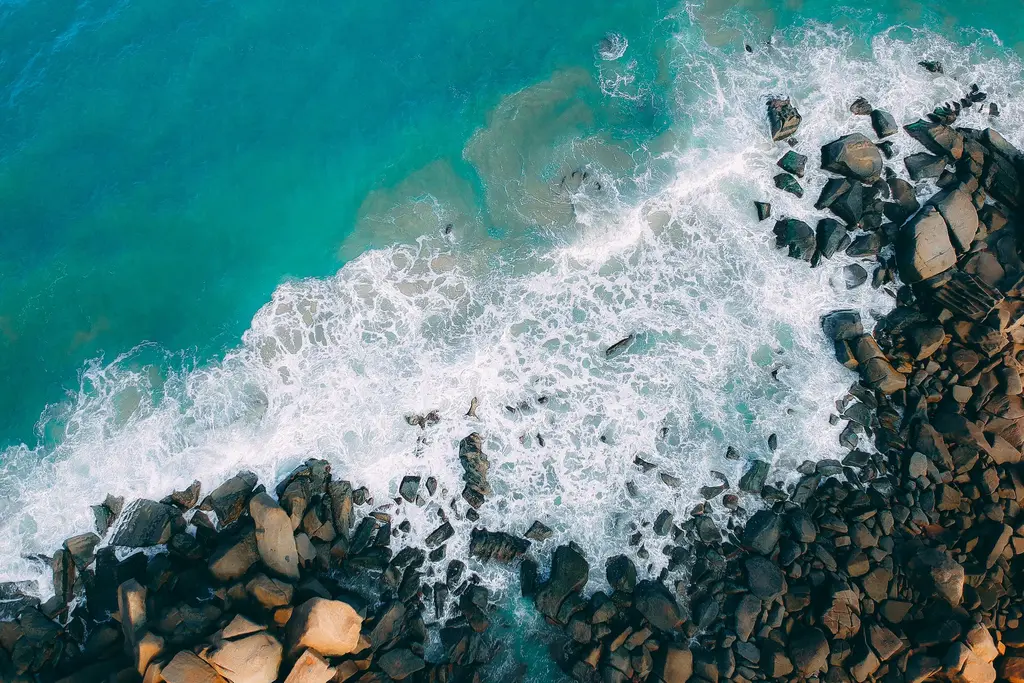
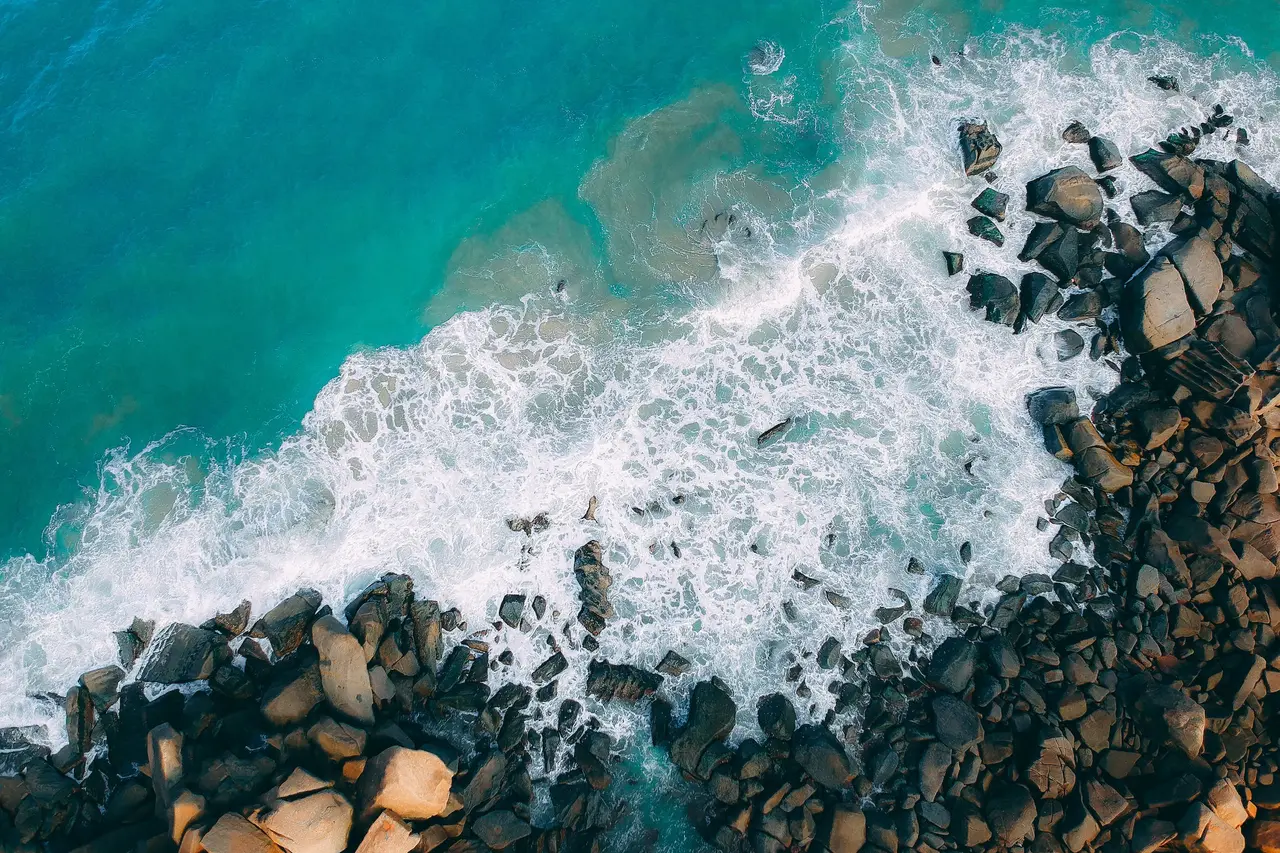
feat: update projects' cover

diff --git a/app/projects/[...slug]/page.tsx b/app/projects/[...slug]/page.tsx
@@ -3,6 +3,8 @@ import { Metadata } from 'next';
 import Link from 'next/link';
 
 import { Column } from '@/core/components/Flex';
+import { processImage } from '@/scripts/rehype-image-process';
+import { BannerImage } from '@/src/components/Images/BannerImage';
 import { MDXBody } from '@/src/components/MDX/MDXBody';
 import { getOGMetadata } from '@/src/utils/site-metadata';
 
@@ -33,11 +35,17 @@ export async function generateStaticParams() {
   }));
 }
 
-export default function ProjectPage({ params }: ProjectProps) {
+export default async function ProjectPage({ params }: ProjectProps) {
   const { project, previous, next } = getNextProject(params);
 
   return (
     <main className={styles.page}>
+      {project.cover && (
+        <BannerImage
+          {...await processImage(project.cover)}
+          marginBottom="24px"
+        />
+      )}
       <h1 className={styles.title}>{project.title}</h1>
       <p className={styles.date}>{project.date}</p>
       <MDXBody>{project.body.code}</MDXBody>

diff --git a/scripts/rehype-image-process.ts b/scripts/rehype-image-process.ts
@@ -131,8 +131,8 @@ const compressImage = async (image, checksum) => {
   }
   let width, height;
   if (!existsSync(fullPath)) {
-    const w = image.properties.width > 1024 ? 1024 : undefined;
-    const h = image.properties.height > 1024 ? 1024 : undefined;
+    const w = image.properties.width > 1280 ? 1280 : undefined;
+    const h = image.properties.height > 1280 ? 1280 : undefined;
     // 压缩图片
     const buffer = await sharpImage
       .webp({ quality: 75 })
@@ -211,7 +211,7 @@ const getImageProps = async (data, targetPath: string) => {
     return null;
   }
   return {
-    size: size / 1024, //KB
+    size: size / 1280, //KB
     data,
     format,
     properties: {

diff --git a/app/projects/page.tsx b/app/projects/page.tsx
@@ -26,8 +26,6 @@ export default function Page() {
 
 const ProjectItem = async (props: { project: Project; background: string }) => {
   const { project, background } = props;
-  project.cover =
-    'https://framerusercontent.com/images/Lqy0klj12zZWSrVNq4F3fDozE.webp?scale-down-to=1024';
   return (
     <Link
       href={project.slug}

diff --git a/src/components/Images/BannerImage.tsx b/src/components/Images/BannerImage.tsx
@@ -9,7 +9,7 @@ export const BannerImage = props => {
           {...props}
           style={{
             ...props.style,
-            maxHeight: '618px',
+            maxHeight: '576px',
           }}
         />
       </div>

diff --git a/src/components/Images/styles.module.css b/src/components/Images/styles.module.css
@@ -13,7 +13,7 @@
   width: 100%;
   object-fit: cover;
   border-radius: 14px;
-  max-height: 618px;
+  max-height: 576px;
 }
 
 @media (max-width: 1024px) {
